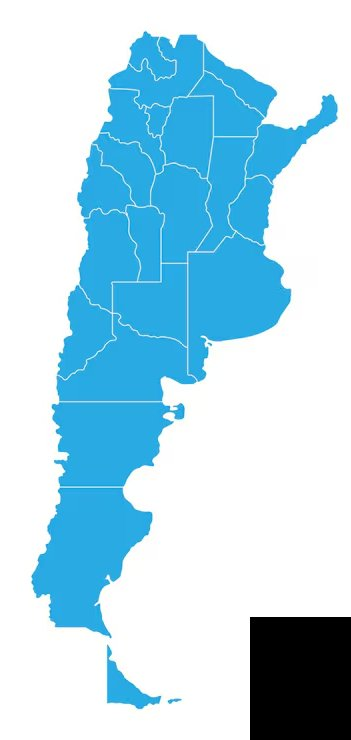
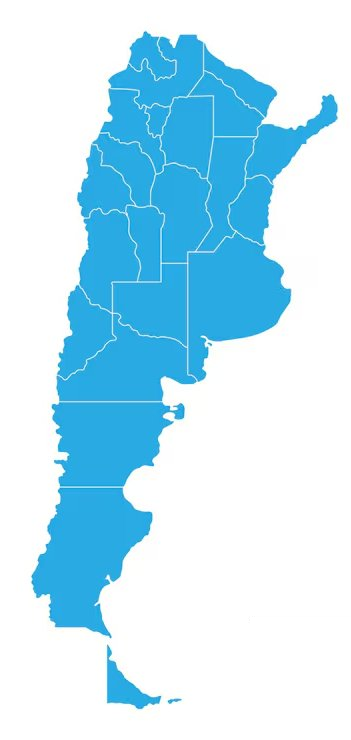
llllllll

Changed region(s): [[0.7123, 0.8081, 1.0, 1.0]]

diff --git a/src/scripts/components/ProvinceMapSVG.js b/src/scripts/components/ProvinceMapSVG.js
@@ -4,32 +4,33 @@
 // encima de cada provincia. Sin SVG paths complejos: forma real garantizada.
 // =============================================================================
 
-// Coordenadas (x,y) de cada pin en la imagen 351×740px
+// Coordenadas (x,y) calibradas sobre la imagen mapa-argentina.png (351×740px)
+// Basadas en centroides geográficos reales de cada provincia
 const PROVINCE_PINS = {
-  jujuy:               { x: 130, y:  54, name: "Jujuy" },
-  salta:               { x: 157, y:  90, name: "Salta" },
-  formosa:             { x: 225, y:  72, name: "Formosa" },
-  misiones:            { x: 292, y: 138, name: "Misiones" },
-  chaco:               { x: 210, y: 118, name: "Chaco" },
-  tucuman:             { x: 136, y: 132, name: "Tucumán" },
-  santiago_del_estero: { x: 190, y: 150, name: "Santiago del Estero" },
-  catamarca:           { x: 112, y: 145, name: "Catamarca" },
-  corrientes:          { x: 256, y: 172, name: "Corrientes" },
-  entre_rios:          { x: 238, y: 230, name: "Entre Ríos" },
-  la_rioja:            { x: 110, y: 182, name: "La Rioja" },
-  san_juan:            { x:  90, y: 215, name: "San Juan" },
-  cordoba:             { x: 162, y: 222, name: "Córdoba" },
-  santa_fe:            { x: 210, y: 200, name: "Santa Fe" },
-  mendoza:             { x:  88, y: 272, name: "Mendoza" },
-  san_luis:            { x: 132, y: 262, name: "San Luis" },
-  buenos_aires:        { x: 210, y: 320, name: "Buenos Aires" },
-  caba:                { x: 244, y: 283, name: "CABA" },
-  la_pampa:            { x: 138, y: 330, name: "La Pampa" },
-  neuquen:             { x:  68, y: 360, name: "Neuquén" },
-  rio_negro:           { x: 108, y: 402, name: "Río Negro" },
-  chubut:              { x: 106, y: 480, name: "Chubut" },
-  santa_cruz:          { x:  90, y: 578, name: "Santa Cruz" },
-  tierra_del_fuego:    { x: 120, y: 668, name: "Tierra del Fuego" },
+  jujuy:               { x: 125, y:  56, name: "Jujuy" },
+  salta:               { x: 155, y:  89, name: "Salta" },
+  formosa:             { x: 216, y:  83, name: "Formosa" },
+  misiones:            { x: 289, y: 141, name: "Misiones" },
+  chaco:               { x: 198, y: 133, name: "Chaco" },
+  tucuman:             { x: 134, y: 131, name: "Tucumán" },
+  santiago_del_estero: { x: 172, y: 152, name: "Santiago del Estero" },
+  catamarca:           { x: 101, y: 141, name: "Catamarca" },
+  corrientes:          { x: 252, y: 174, name: "Corrientes" },
+  entre_rios:          { x: 232, y: 238, name: "Entre Ríos" },
+  la_rioja:            { x: 101, y: 185, name: "La Rioja" },
+  san_juan:            { x:  80, y: 216, name: "San Juan" },
+  cordoba:             { x: 155, y: 228, name: "Córdoba" },
+  santa_fe:            { x: 200, y: 210, name: "Santa Fe" },
+  mendoza:             { x:  76, y: 286, name: "Mendoza" },
+  san_luis:            { x: 124, y: 272, name: "San Luis" },
+  buenos_aires:        { x: 210, y: 332, name: "Buenos Aires" },
+  caba:                { x: 241, y: 290, name: "CABA" },
+  la_pampa:            { x: 128, y: 342, name: "La Pampa" },
+  neuquen:             { x:  58, y: 374, name: "Neuquén" },
+  rio_negro:           { x: 100, y: 410, name: "Río Negro" },
+  chubut:              { x:  92, y: 490, name: "Chubut" },
+  santa_cruz:          { x:  84, y: 597, name: "Santa Cruz" },
+  tierra_del_fuego:    { x: 114, y: 682, name: "Tierra del Fuego" },
 };
 
 const COLOR = {

diff --git a/src/scripts/scenes/TitleScene.js b/src/scripts/scenes/TitleScene.js
@@ -23,22 +23,29 @@ export class TitleScene extends BaseScene {
           <div class="bg-shape bg-shape--2"></div>
           <div class="bg-shape bg-shape--3"></div>
         </div>
-        <div class="title-screen__content">
-          <h1 class="title-screen__game-title">
-            <span class="title-screen__tag">Tras las Huellas del</span>
-            <span class="title-screen__main">Ladrón Federal</span>
-          </h1>
-          <p class="title-screen__subtitle">
-            Agencia Federal de Protección Cultural · Misión: recuperar el patrimonio argentino
-          </p>
-          <nav class="title-screen__menu" aria-label="Menú principal">
-            <button class="menu-btn menu-btn--primary" data-action="new">▶ Nueva partida</button>
-            <button class="menu-btn" data-action="continue" ${saveSystem.hasSave() ? '' : 'disabled'}>↻ Continuar</button>
-            <button class="menu-btn" data-action="achievements">🏆 Logros</button>
-            <button class="menu-btn" data-action="tutorial">📄 Cómo jugar (PDF)</button>
-            <button class="menu-btn" data-action="credits">🎬 Créditos</button>
-          </nav>
-          <p class="title-screen__hint">10–12 años · sin violencia · educativo</p>
+        <div class="title-screen__layout">
+          <!-- Detective -->
+          <div class="title-screen__detective" aria-hidden="true">
+            <img src="assets/characters/detective-full.png" alt="Detective" />
+          </div>
+          <!-- Panel de menú -->
+          <div class="title-screen__content">
+            <h1 class="title-screen__game-title">
+              <span class="title-screen__tag">Tras las Huellas del</span>
+              <span class="title-screen__main">Ladrón Federal</span>
+            </h1>
+            <p class="title-screen__subtitle">
+              Agencia Federal de Protección Cultural · Misión: recuperar el patrimonio argentino
+            </p>
+            <nav class="title-screen__menu" aria-label="Menú principal">
+              <button class="menu-btn menu-btn--primary" data-action="new">▶ Nueva partida</button>
+              <button class="menu-btn" data-action="continue" ${saveSystem.hasSave() ? '' : 'disabled'}>↻ Continuar</button>
+              <button class="menu-btn" data-action="achievements">🏆 Logros</button>
+              <button class="menu-btn" data-action="tutorial">📄 Cómo jugar (PDF)</button>
+              <button class="menu-btn" data-action="credits">🎬 Créditos</button>
+            </nav>
+            <p class="title-screen__hint">10–12 años · sin violencia · educativo</p>
+          </div>
         </div>
       </div>
     `;
@@ -63,6 +70,9 @@ export class TitleScene extends BaseScene {
     const title = body.querySelector('.title-screen__game-title');
     gsap.from(title, { y: -40, opacity: 0, duration: 0.8, ease: 'back.out(1.4)' });
     gsap.from('.menu-btn', { y: 20, opacity: 0, duration: 0.4, stagger: 0.08, delay: 0.3 });
+    gsap.from('.title-screen__detective img', {
+      x: -60, opacity: 0, duration: 0.9, ease: 'back.out(1.2)', delay: 0.1
+    });
     gsap.to('.bg-shape', {
       rotation: '+=360',
       duration: 60,

diff --git a/src/styles/components.css b/src/styles/components.css
@@ -176,6 +176,7 @@
 .title-screen {
   position: relative;
   min-height: 100vh;
+  min-height: 100dvh;
   display: flex;
   align-items: center;
   justify-content: center;
@@ -197,14 +198,42 @@
 .bg-shape--1 { width: 300px; height: 300px; top: -100px; left: -100px; background: var(--c-yellow); }
 .bg-shape--2 { width: 400px; height: 400px; bottom: -150px; right: -100px; background: var(--c-green); }
 .bg-shape--3 { width: 250px; height: 250px; top: 40%; right: 20%; background: var(--c-red); opacity: 0.3; }
-.title-screen__content {
+
+/* Layout: detective a la izquierda, menú a la derecha (desktop) */
+.title-screen__layout {
   position: relative;
-  text-align: center;
-  max-width: 600px;
+  z-index: 1;
+  display: flex;
+  align-items: flex-end;
+  justify-content: center;
+  gap: 0;
+  width: 100%;
+  max-width: 900px;
+}
+
+/* Imagen de la detective */
+.title-screen__detective {
+  display: none; /* oculta en mobile, aparece en tablet+ */
+  flex-shrink: 0;
+  width: 280px;
+  align-self: flex-end;
+}
+.title-screen__detective img {
+  width: 100%;
+  height: auto;
+  display: block;
+  filter: drop-shadow(4px 8px 16px rgba(0,0,0,0.2));
+}
+
+/* Panel de menú */
+.title-screen__content {
   background: var(--c-white);
-  padding: var(--sp-7) var(--sp-5);
+  padding: var(--sp-6) var(--sp-5);
   border-radius: var(--radius-lg);
   box-shadow: var(--shadow-lg);
+  text-align: center;
+  max-width: 480px;
+  width: 100%;
 }
 .title-screen__game-title {
   font-family: var(--font-display);

diff --git a/src/styles/responsive.css b/src/styles/responsive.css
@@ -19,21 +19,13 @@
   .scene-body { padding: var(--sp-6); gap: var(--sp-6); }
   .title-screen__content { padding: var(--sp-8) var(--sp-6); }
 
+  /* Detective visible en tablet */
+  .title-screen__detective { display: block; width: 240px; margin-right: -20px; }
+
   /* Mapa: lado a lado con sidebar */
-  .map-scene__body {
-    flex-direction: row;
-    align-items: flex-start;
-    gap: var(--sp-5);
-  }
-  .map-scene__map-wrap {
-    flex: 0 0 340px;
-    max-width: 340px;
-    margin: 0;
-  }
-  .map-scene__sidebar {
-    flex: 1;
-    min-width: 0;
-  }
+  .map-scene__body { flex-direction: row; align-items: flex-start; gap: var(--sp-5); }
+  .map-scene__map-wrap { flex: 0 0 260px; max-width: 260px; margin: 0; }
+  .map-scene__sidebar { flex: 1; min-width: 0; }
 
   .ending__stats { grid-template-columns: repeat(4, 1fr); }
   .office__grid { grid-template-columns: repeat(2, 1fr); }
@@ -44,7 +36,8 @@
 /* ---------- LAPTOP (1024px+) ---------- */
 @media (min-width: 1024px) {
   :root { --font-scale: 1.1; }
-  .map-scene__map-wrap { flex: 0 0 420px; max-width: 420px; }
+  .title-screen__detective { width: 320px; margin-right: -30px; }
+  .map-scene__map-wrap { flex: 0 0 300px; max-width: 300px; }
   .office__grid { grid-template-columns: repeat(auto-fit, minmax(220px, 1fr)); }
   .hud__brand { font-size: var(--fs-lg); }
   .hud__case { font-size: var(--fs-base); }